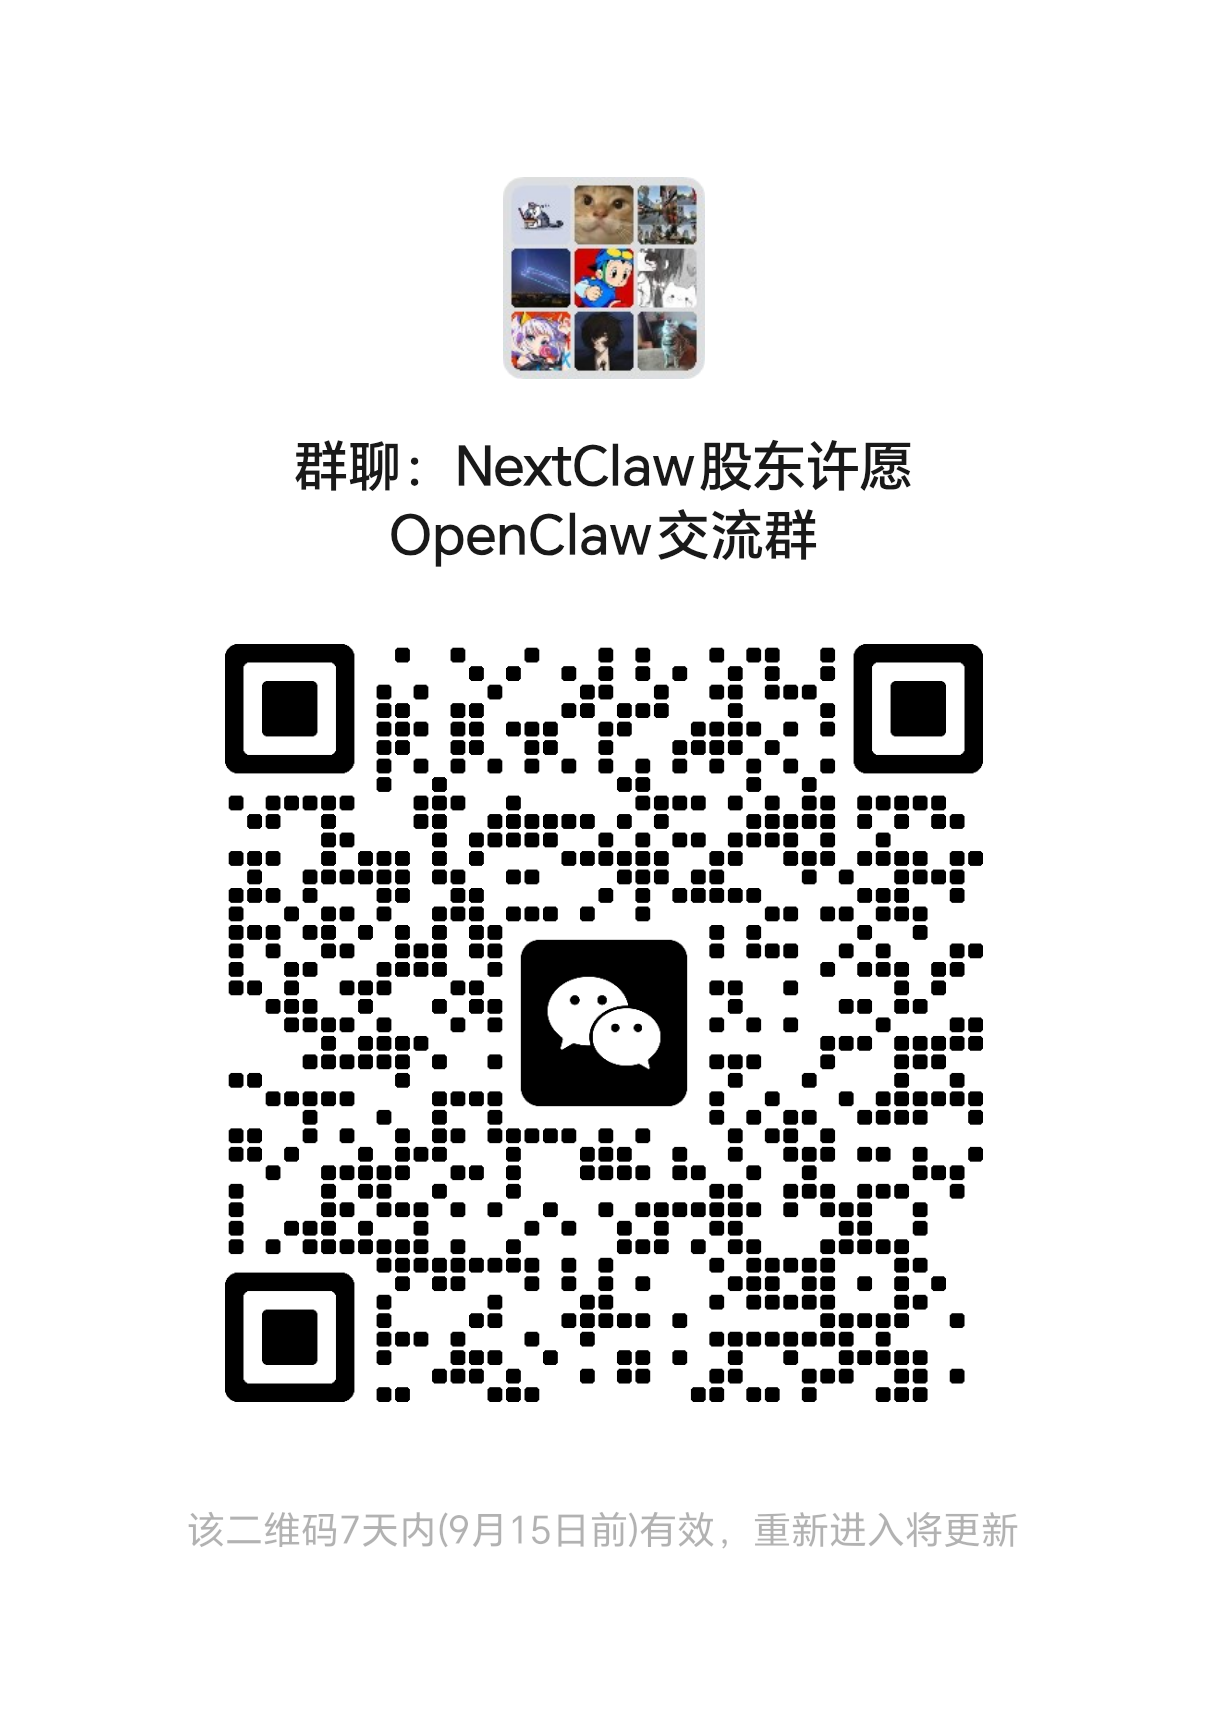
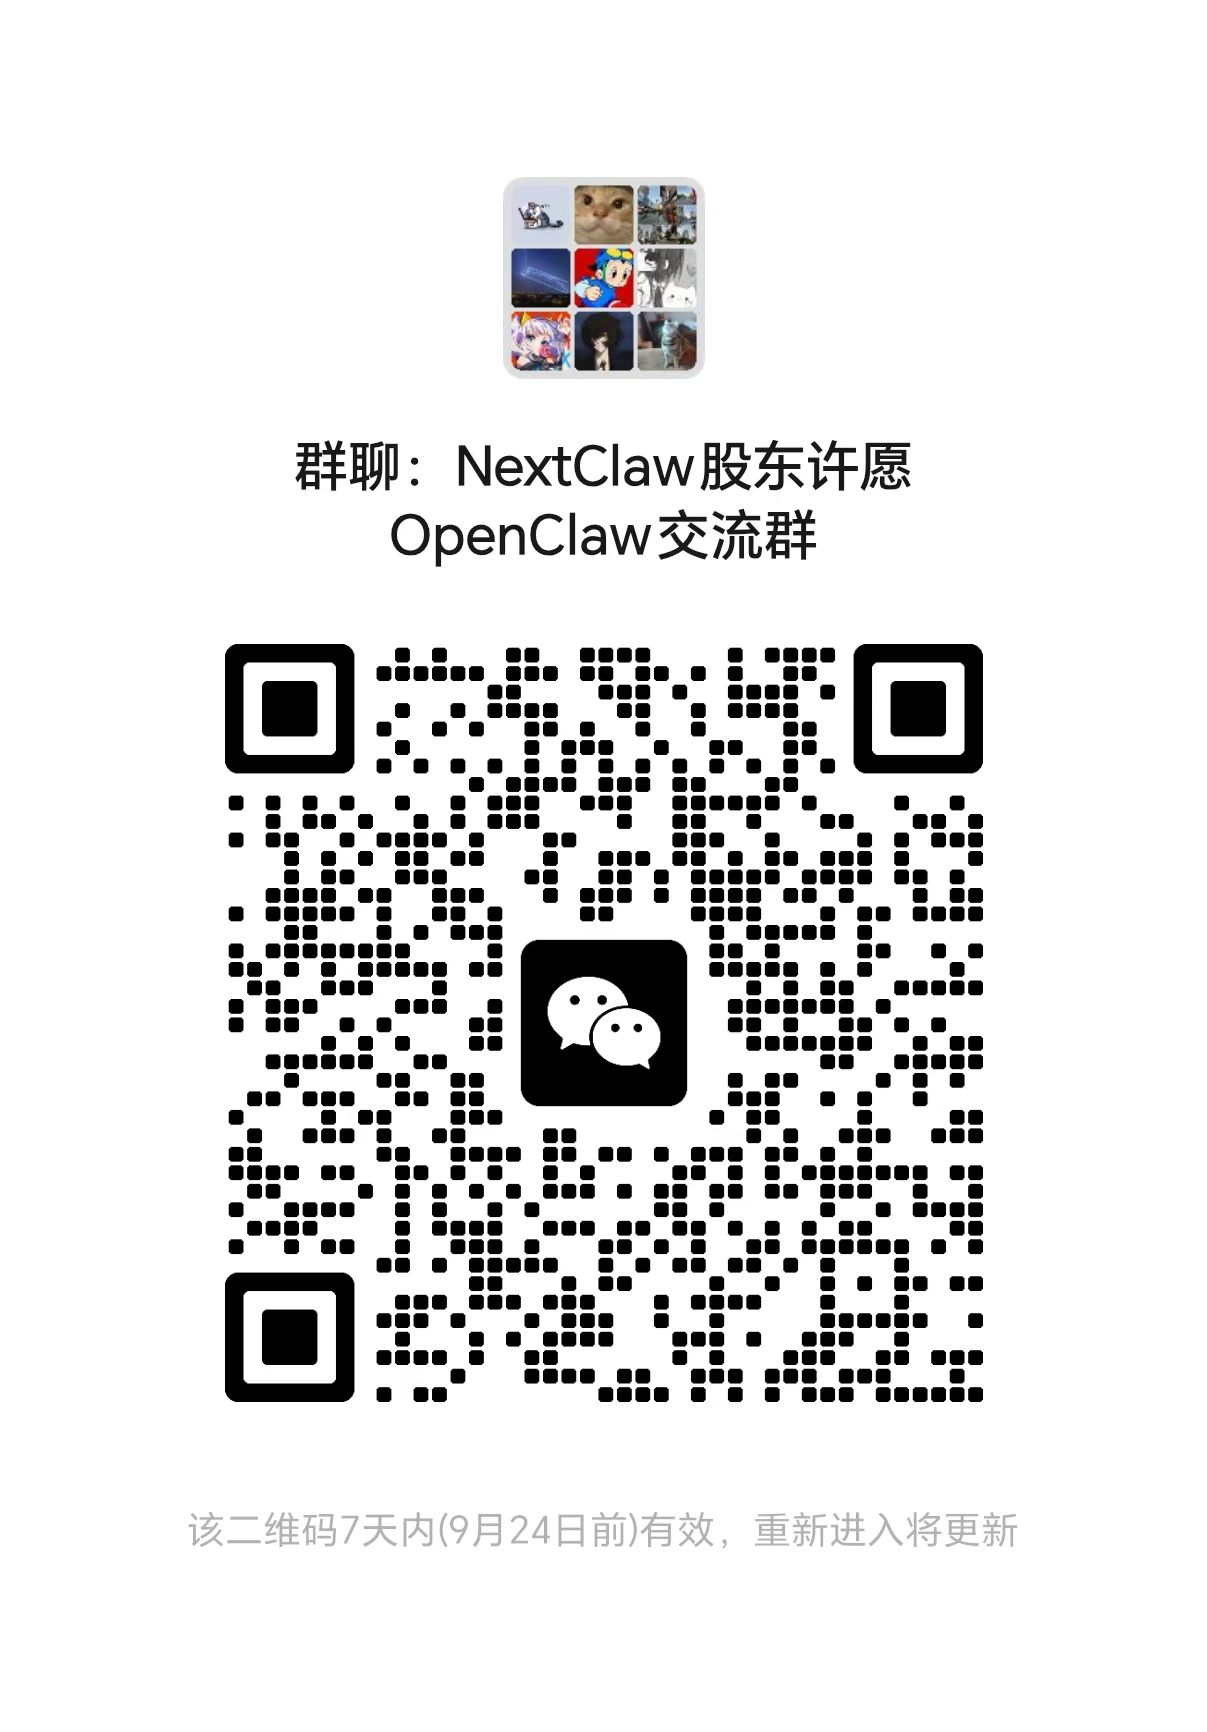
docs: refresh WeChat group QR code for September 17

Changed region(s): [[0.1839, 0.3741, 0.8277, 0.8106], [0.4292, 0.873, 0.4598, 0.9042]]

diff --git a/apps/landing/src/shared/lib/landing-content/landing-route.utils.ts b/apps/landing/src/shared/lib/landing-content/landing-route.utils.ts
@@ -34,7 +34,7 @@ export const LOCALE_OPTIONS: Array<{ value: Locale; label: string }> = [
 export const LINKS: Record<'github' | 'npm' | 'wechatGroupImage', string> & { docs: Record<Locale, string> } = {
   github: 'https://github.com/Peiiii/nextclaw',
   npm: 'https://www.npmjs.com/package/nextclaw',
-  wechatGroupImage: '/contact/nextclaw-contact-wechat-group-2026-09-08.png',
+  wechatGroupImage: '/contact/nextclaw-contact-wechat-group-2026-09-17.png',
   docs: {
     en: 'https://docs.nextclaw.io/en/',
     zh: 'https://docs.nextclaw.io/zh/'
